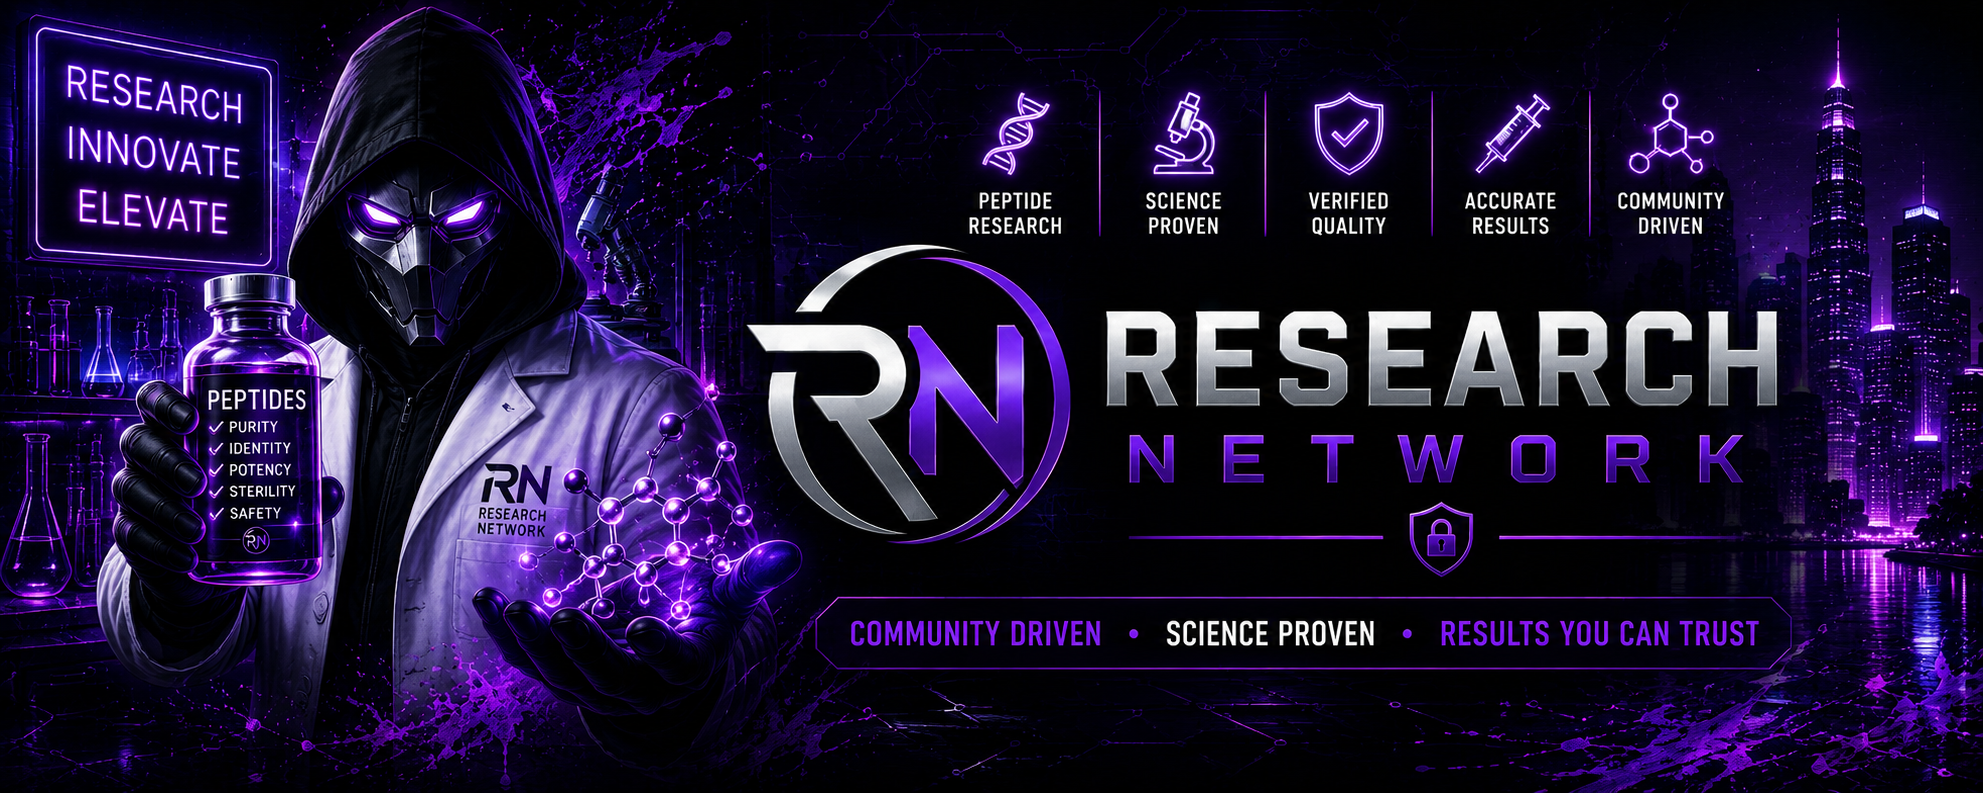
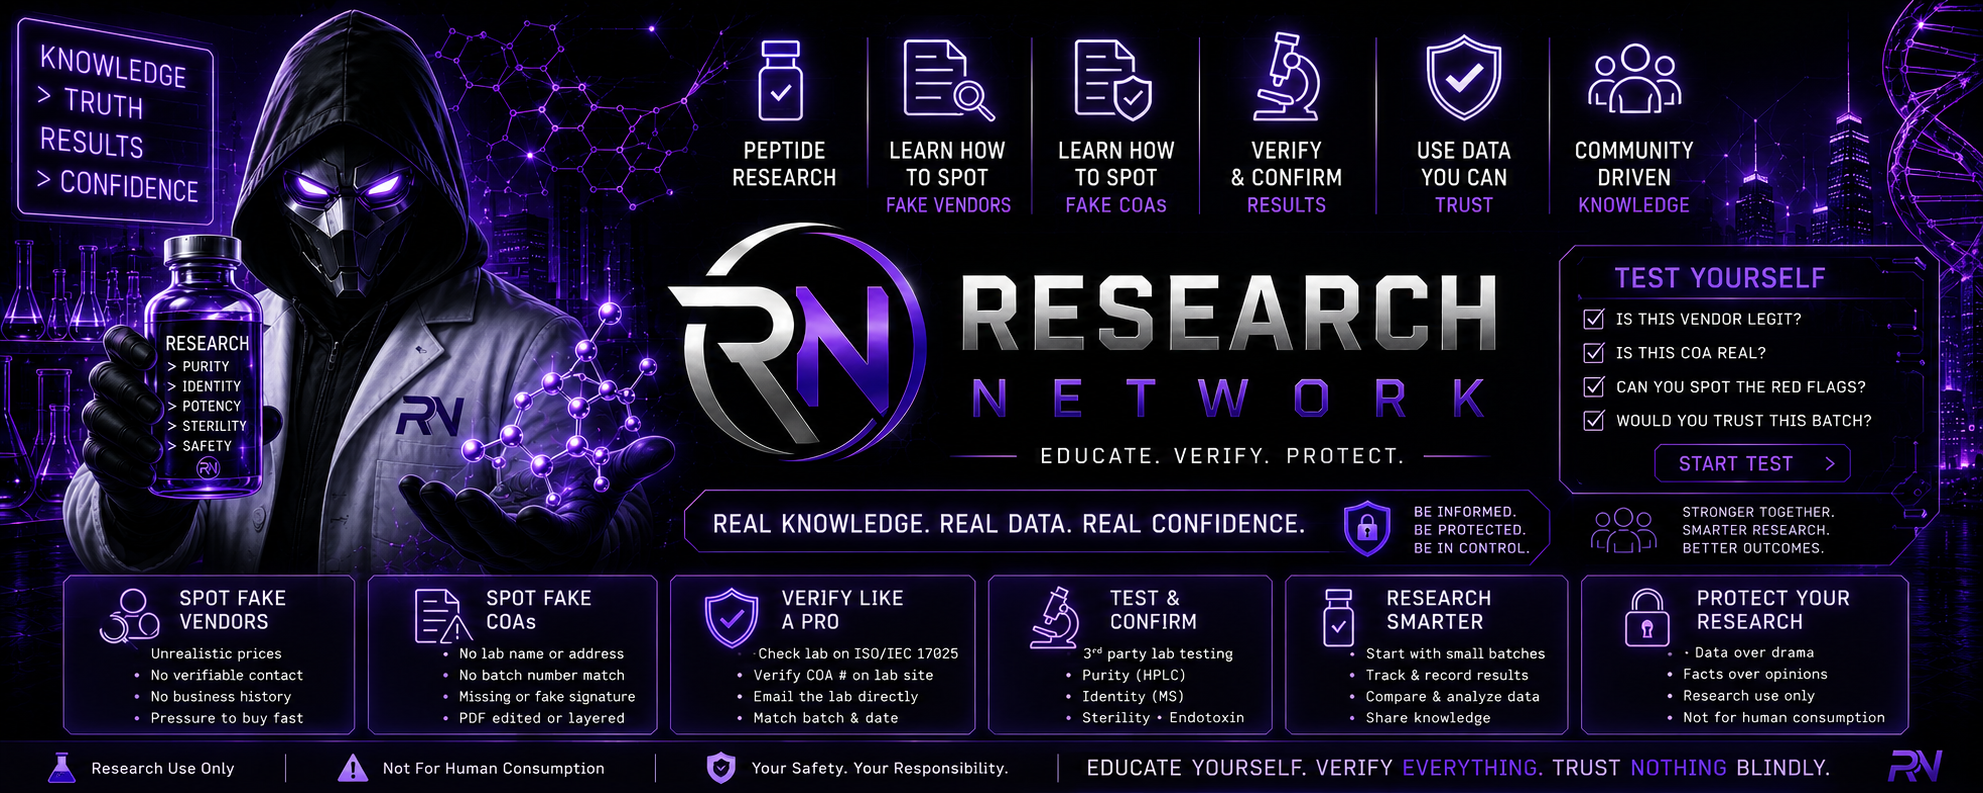
Add files via upload

diff --git a/home.html b/home.html
@@ -3186,19 +3186,12 @@ document.addEventListener('keydown', function(e){
 <header class="site-header">
   <div class="header-inner">
     <div class="logo" onclick="showView('home'); setActiveNav(document.querySelector('.nav-pill'))">
-      <!-- RN Logo image with spinning retro glow ring -->
-      <div style="position:relative;display:flex;align-items:center;justify-content:center;flex-shrink:0;width:104px;height:104px;">
-        <!-- Spinning conic gradient ring -->
-        <div style="position:absolute;inset:-4px;border-radius:50%;
-          background:conic-gradient(from 0deg, #ffd700, #ff6600, #ff1500, #ff8800, #ffd700);
-          animation:headerLogoSpin 2.5s linear infinite;
-          filter:blur(2px);
-          z-index:0;pointer-events:none;">
-        </div>
-        <!-- Dark backing to keep ring tight -->
-        <div style="position:absolute;inset:2px;border-radius:50%;background:var(--dark-bg);z-index:1;pointer-events:none;"></div>
+      <!-- RN Logo image — hexagonal HUD frame, matches hero badge -->
+      <div style="position:relative;display:flex;align-items:center;justify-content:center;flex-shrink:0;width:64px;height:64px;">
+        <div style="position:absolute;inset:-5px;clip-path:polygon(25% 4%, 75% 4%, 100% 50%, 75% 96%, 25% 96%, 0% 50%);background:linear-gradient(135deg,var(--rn-teal),var(--rn-violet),var(--rn-chrome));z-index:0;pointer-events:none;"></div>
+        <div style="position:absolute;inset:-2px;clip-path:polygon(25% 4%, 75% 4%, 100% 50%, 75% 96%, 25% 96%, 0% 50%);background:var(--dark-bg);z-index:1;pointer-events:none;"></div>
         <img src="rnlogo.png?v=3" alt="RN Logo"
-          style="height:98px;width:98px;object-fit:cover;border-radius:50%;display:block;position:relative;z-index:2;">
+          style="height:60px;width:60px;object-fit:cover;display:block;position:relative;z-index:2;clip-path:polygon(25% 4%, 75% 4%, 100% 50%, 75% 96%, 25% 96%, 0% 50%);">
       </div>
       <div class="logo-text">
         <div class="logo-title">Research Network</div>
@@ -3297,9 +3290,10 @@ document.addEventListener('keydown', function(e){
 <!-- HERO -->
 <div class="hero" id="site-hero">
 
-    <!-- GLOWRILLA'S SELF PROTOCOL -->
-    <div style="max-width:680px;margin:0 auto 0.85rem;text-align:left;">
+    <!-- GLOWRILLA'S SELF PROTOCOL + VENDOR VAULT ACCESS -->
+    <div style="max-width:680px;margin:0 auto 0.85rem;text-align:left;display:flex;gap:0.6rem;flex-wrap:wrap;">
       <button onclick="openLightbox('cheatsheet/RESEARCH_SELF_PROTOCOL.png','Operator Dossier: Glowrilla')" class="hero-badge cyan" style="cursor:pointer;transition:box-shadow 0.2s,background 0.2s;" onmouseover="this.style.background='rgba(201,201,232,0.15)';this.style.boxShadow='0 0 18px rgba(201,201,232,0.5)'" onmouseout="this.style.background='#0a0a1e';this.style.boxShadow='none'">🦍 OPERATOR DOSSIER: GLOWRILLA</button>
+      <a href="vendor-vault.html" class="hero-badge" style="border-color:var(--rn-teal);color:var(--rn-teal);background:#0a0a1e;text-decoration:none;display:inline-flex;align-items:center;transition:box-shadow 0.2s,background 0.2s;" onmouseover="this.style.background='rgba(45,212,191,0.15)';this.style.boxShadow='0 0 18px rgba(45,212,191,0.5)'" onmouseout="this.style.background='#0a0a1e';this.style.boxShadow='none'">🔐 VENDOR VAULT ACCESS</a>
     </div>
 
     <!-- LATEST NEWS -->
@@ -4817,7 +4811,7 @@ document.addEventListener('keydown', function(e){
       <span style="font-size:1.5rem;flex-shrink:0;line-height:1;">⚠</span>
       <div>
         <div style="font-family:'Bebas Neue',sans-serif;font-size:1rem;letter-spacing:0.14em;color:#00ff64;margin-bottom:0.3rem;">Not Medical Advice — Tools I Use for My Own Health</div>
-        <div style="font-family:'Rajdhani',sans-serif;font-size: 1.05rem;font-weight:600;color:#ffffff;line-height:1.7;">
+        <div style="font-family:'Rajdhani',sans-serif;font-size: 1.0'Rajdhani',sans-serif;font-size: 1.05rem;font-weight:600;color:#ffffff;line-height:1.7;">
           Everything on this page is for <strong style="color:#00ff64;">informational and educational purposes only.</strong> These are tools and resources I personally use to better understand my own health. Nothing here constitutes medical advice, diagnosis, or treatment. Always consult a qualified medical professional before making any health decisions.
         </div>
       </div>
@@ -12251,23 +12245,4 @@ function resetEmailWidget() {
   btn.addEventListener('mouseover', function(){ btn.style.boxShadow='0 0 28px rgba(201,201,232,0.7)'; btn.style.transform='translateY(-2px)'; });
   btn.addEventListener('mouseout', function(){ btn.style.boxShadow='0 0 18px rgba(201,201,232,0.45)'; btn.style.transform='translateY(0)'; });
 })();
-</script>
-
-</body>
-</html>
-
-
-
-
-
-
-
-
-
-
-
-
-
-
-
-
+</scrip